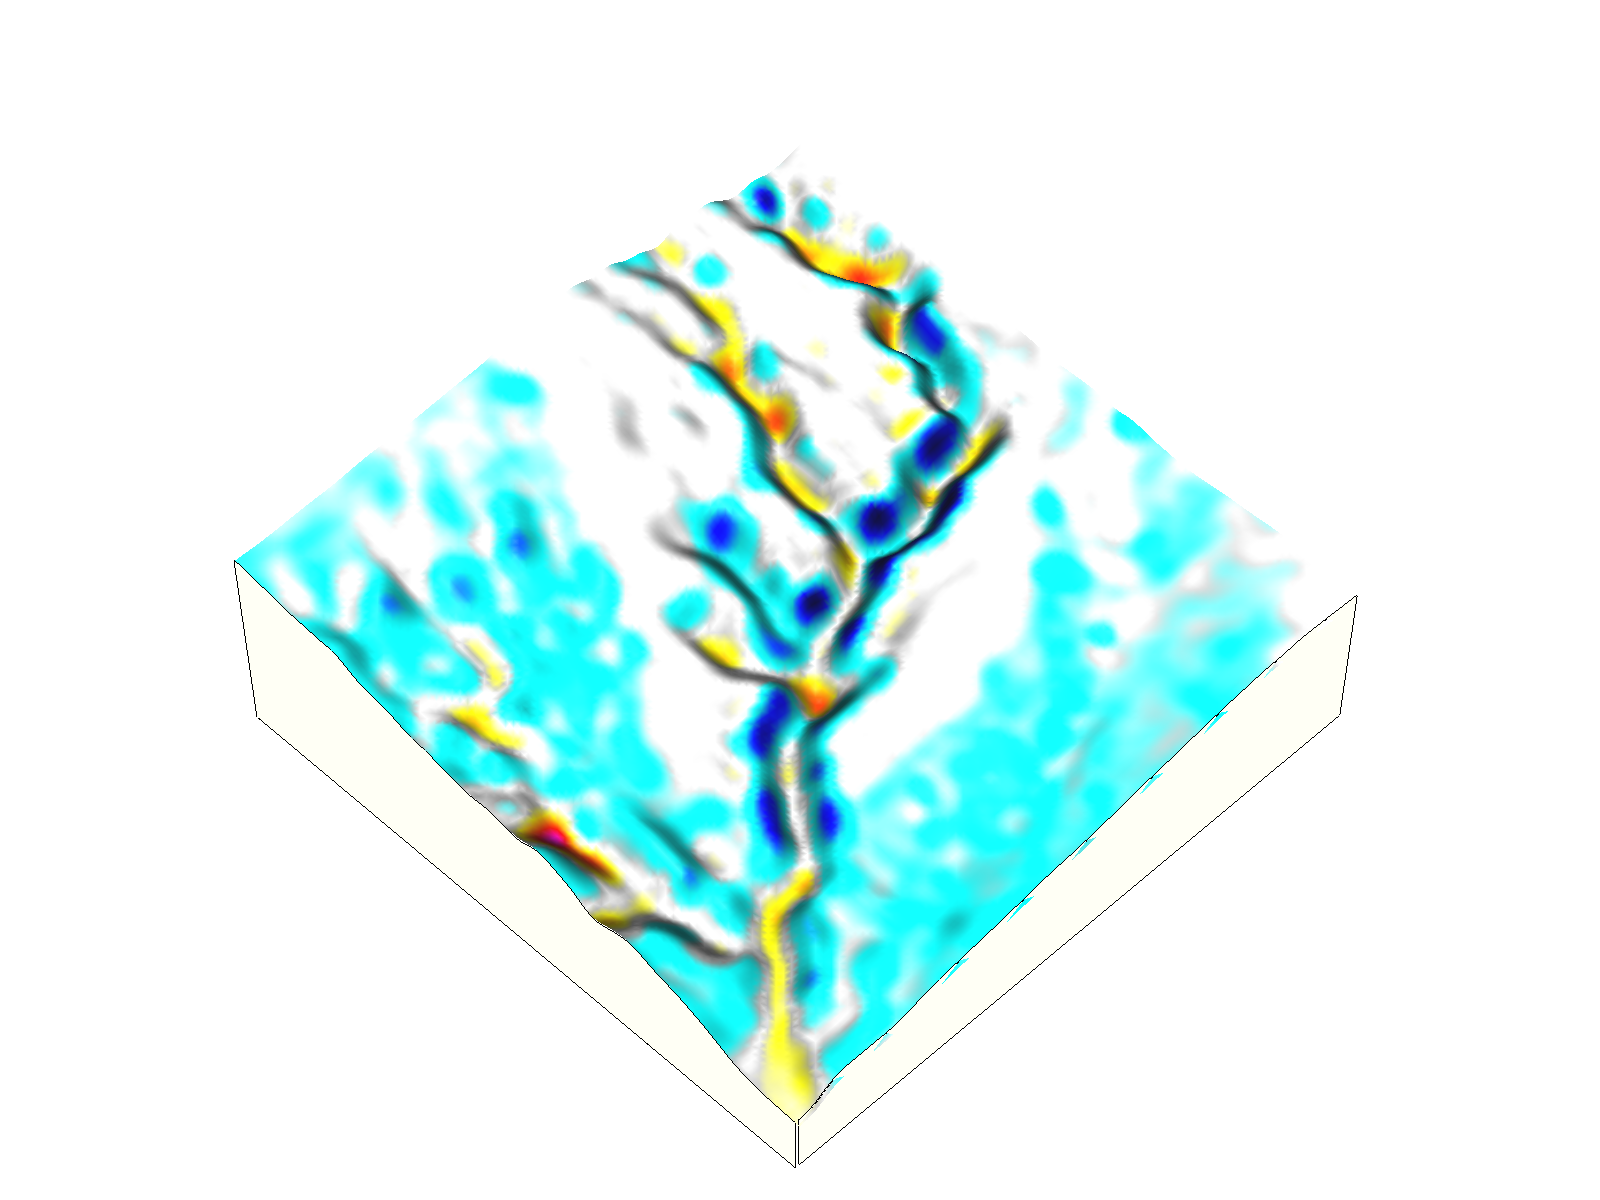
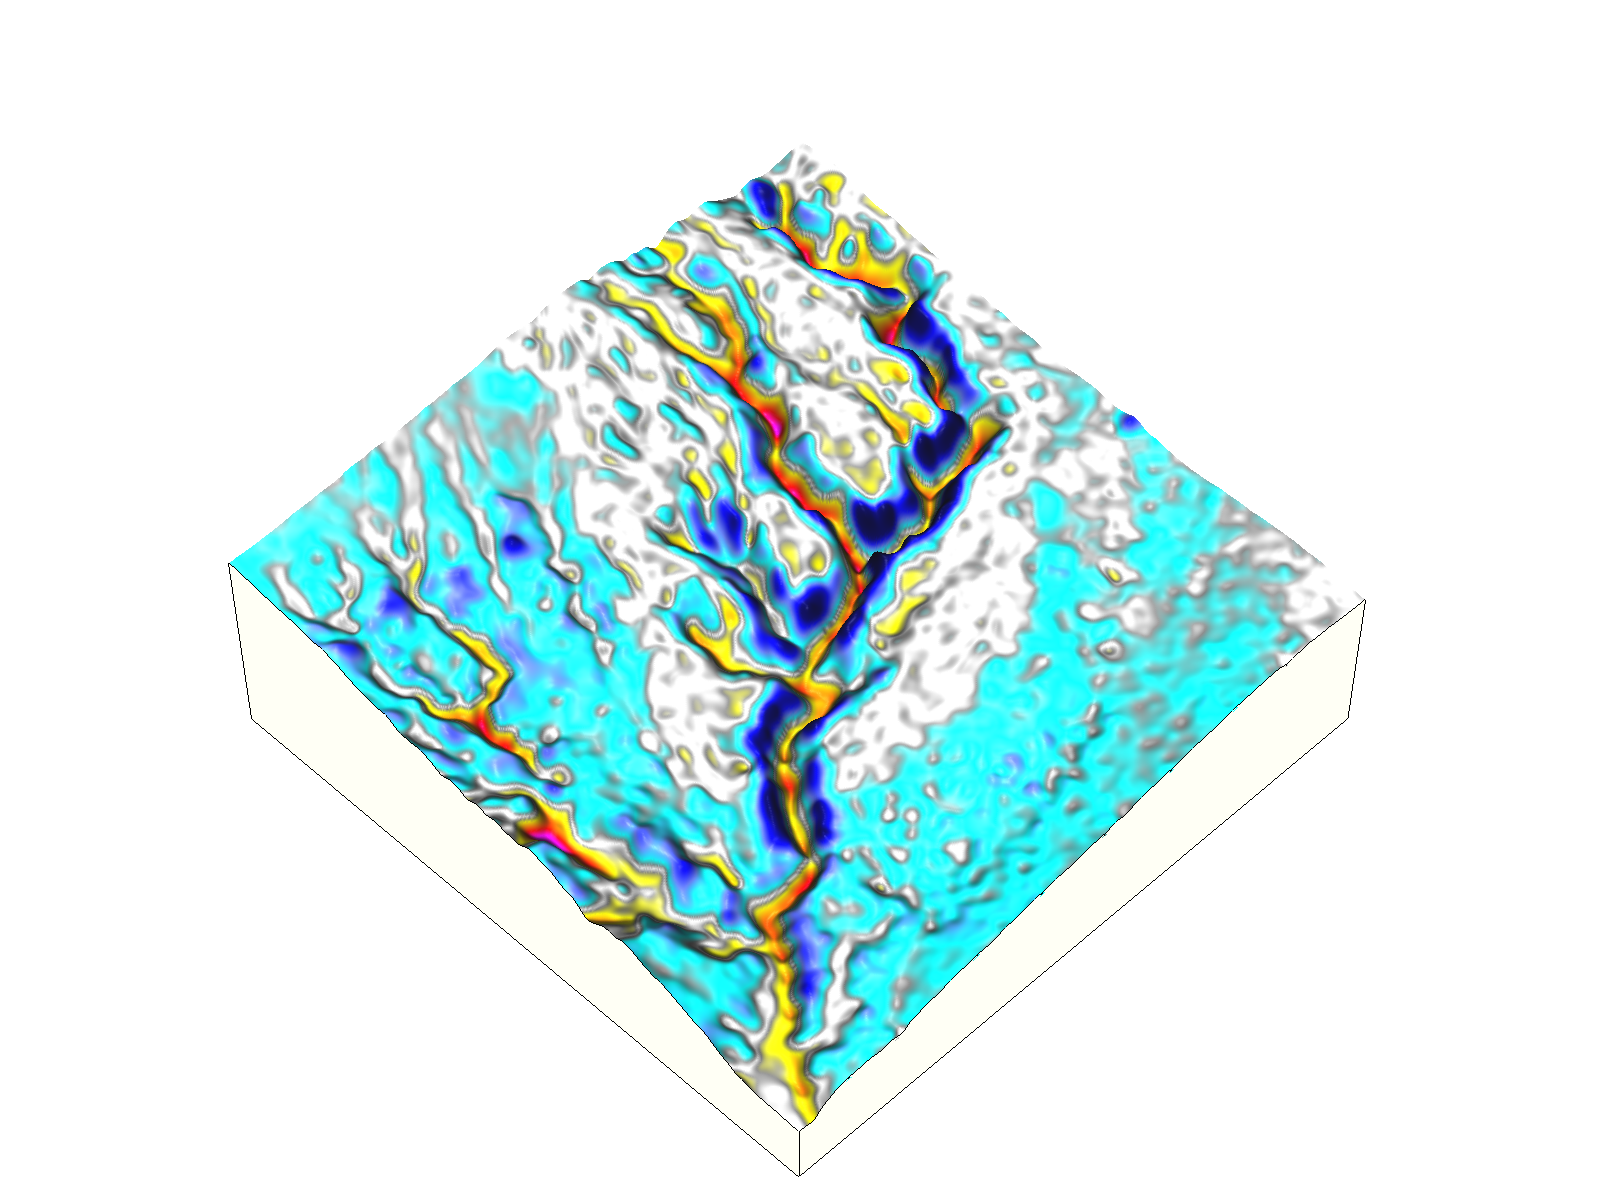
update rendering 3d script

Changed region(s): [[0.125, 0.1233, 0.8438, 0.9558]]

diff --git a/testing/render_sample_data.py b/testing/render_sample_data.py
@@ -49,7 +49,7 @@ years = [2004, 2012, 2016]
 
 def main():
 
-    # # render 2d maps
+    # render 2d maps
     render_region_2d()
     render_subregion_2d()
     render_fortbragg_2d()
@@ -344,39 +344,23 @@ def render_region_3d():
                         region='region',
                         res=res)
 
-    # list of rasters to render
-    rasters = ['elevation_2016',
-        'colorized_skyview_2016',
+    # list of 2004 rasters to render
+    rasters_2004 = ['colorized_skyview_2004',
+        'landforms_2004']
+
+    # list of 2012 rasters to render
+    rasters_2012 = ['colorized_skyview_2012',
+        'landforms_2012',
+        'difference_2004_2012']
+
+    # list of 2016 rasters to render
+    rasters_2016 = ['colorized_skyview_2016',
         'depth_2016',
         'landforms_2016',
         'naip_2014',
         'landcover',
-        'difference_2004_2016']
-
-    # list of 2004 rasters to render
-    rasters_2004 = ['elevation_2004',
-        'colorized_skyview_2004',
-        'landforms_2004']
-
-    for raster in rasters:
-        # 3D render raster
-        gscript.run_command('m.nviz.image',
-            elevation_map='elevation_2016',
-            color_map=raster,
-            resolution_fine=1,
-            height=camera_height,
-            position=position,
-            perspective=perspective,
-            zexag=zexag,
-            light_position=light_position,
-            fringe=fringe,
-            fringe_color=fringe_color,
-            fringe_elevation=fringe_elevation,
-            output=os.path.join(render,raster),
-            format='tif',
-            size=size,
-            errors='ignore'
-            )
+        'difference_2004_2016',
+        'difference_2012_2016']
 
     for raster in rasters_2004:
         # 3D render raster
@@ -398,6 +382,45 @@ def render_region_3d():
             errors='ignore'
             )
 
+    for raster in rasters_2012:
+        # 3D render raster
+        gscript.run_command('m.nviz.image',
+            elevation_map='elevation_2012',
+            color_map=raster,
+            resolution_fine=1,
+            height=camera_height,
+            position=position,
+            perspective=perspective,
+            zexag=zexag,
+            light_position=light_position,
+            fringe=fringe,
+            fringe_color=fringe_color,
+            fringe_elevation=fringe_elevation,
+            output=os.path.join(render,raster),
+            format='tif',
+            size=size,
+            errors='ignore'
+            )
+
+    for raster in rasters_2016:
+        # 3D render raster
+        gscript.run_command('m.nviz.image',
+            elevation_map='elevation_2016',
+            color_map=raster,
+            resolution_fine=1,
+            height=camera_height,
+            position=position,
+            perspective=perspective,
+            zexag=zexag,
+            light_position=light_position,
+            fringe=fringe,
+            fringe_color=fringe_color,
+            fringe_elevation=fringe_elevation,
+            output=os.path.join(render,raster),
+            format='tif',
+            size=size,
+            errors='ignore'
+            )
 
 def render_subregion_3d():
     """3D rendering of subregion with nviz"""
@@ -423,39 +446,23 @@ def render_subregion_3d():
                         region='subregion',
                         res=res)
 
-    # list of rasters to render
-    rasters = ['elevation_2016',
-        'colorized_skyview_2016',
+    # list of 2004 rasters to render
+    rasters_2004 = ['colorized_skyview_2004',
+        'landforms_2004']
+
+    # list of 2012 rasters to render
+    rasters_2012 = ['colorized_skyview_2012',
+        'landforms_2012',
+        'difference_2004_2012']
+
+    # list of 2016 rasters to render
+    rasters_2016 = ['colorized_skyview_2016',
         'depth_2016',
         'landforms_2016',
         'naip_2014',
         'landcover',
-        'difference_2004_2016']
-
-    # list of 2004 rasters to render
-    rasters_2004 = ['elevation_2004',
-        'colorized_skyview_2004',
-        'landforms_2004']
-
-    for raster in rasters:
-        # 3D render raster
-        gscript.run_command('m.nviz.image',
-            elevation_map='elevation_2016',
-            color_map=raster,
-            resolution_fine=1,
-            height=camera_height,
-            position=position,
-            perspective=perspective,
-            zexag=zexag,
-            light_position=light_position,
-            fringe=fringe,
-            fringe_color=fringe_color,
-            fringe_elevation=fringe_elevation,
-            output=os.path.join(render,'gully_'+raster),
-            format='tif',
-            size=size,
-            errors='ignore'
-            )
+        'difference_2004_2016',
+        'difference_2012_2016']
 
     for raster in rasters_2004:
         # 3D render raster
@@ -477,6 +484,45 @@ def render_subregion_3d():
             errors='ignore'
             )
 
+    for raster in rasters_2012:
+        # 3D render raster
+        gscript.run_command('m.nviz.image',
+            elevation_map='elevation_2012',
+            color_map=raster,
+            resolution_fine=1,
+            height=camera_height,
+            position=position,
+            perspective=perspective,
+            zexag=zexag,
+            light_position=light_position,
+            fringe=fringe,
+            fringe_color=fringe_color,
+            fringe_elevation=fringe_elevation,
+            output=os.path.join(render,'gully_'+raster),
+            format='tif',
+            size=size,
+            errors='ignore'
+            )
+
+    for raster in rasters_2016:
+        # 3D render raster
+        gscript.run_command('m.nviz.image',
+            elevation_map='elevation_2016',
+            color_map=raster,
+            resolution_fine=1,
+            height=camera_height,
+            position=position,
+            perspective=perspective,
+            zexag=zexag,
+            light_position=light_position,
+            fringe=fringe,
+            fringe_color=fringe_color,
+            fringe_elevation=fringe_elevation,
+            output=os.path.join(render,'gully_'+raster),
+            format='tif',
+            size=size,
+            errors='ignore'
+            )
 
 def render_fortbragg_3d():
     """3D rendering of fort bragg region with nviz"""
